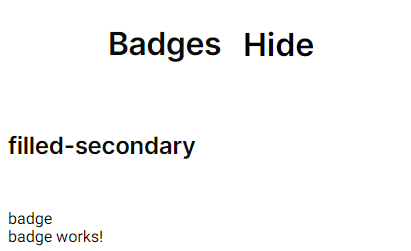
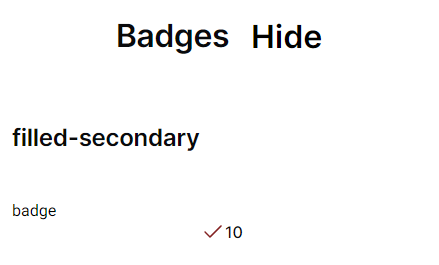
feat: add badge comp basic structure

diff --git a/src/app/shared/services/icons.servcie.ts b/src/app/shared/services/icons.servcie.ts
@@ -1,36 +1,36 @@
-import {Injectable} from '@angular/core'
-import {DomSanitizer} from '@angular/platform-browser'
-import {RefIconService} from '../ui-kit/ref-icon/services/ref-icon.service'
+import { Injectable } from '@angular/core'
+import { DomSanitizer } from '@angular/platform-browser'
+import { RefIconService } from '../ui-kit/ref-icon/services/ref-icon.service'
 
 @Injectable({
-  providedIn: 'root'
+	providedIn: 'root'
 })
 export class IconsService {
-  constructor(
-    private domSanitizer: DomSanitizer,
-    private refIconService: RefIconService
-  ) {
-  }
+	constructor(
+		private domSanitizer: DomSanitizer,
+		private refIconService: RefIconService
+	) {}
 
-  public icons: string[] = [
-    'fi_chevron-left',
-    'fi_chevron-right',
-    'fi_search',
-    'fi_x',
-    'fi_menu',
-    'fi_chevron-down',
-    'logotype',
-    'fi_maximize-2',
-    'fi_info'
-  ]
+	public icons: string[] = [
+		'fi_chevron-left',
+		'fi_chevron-right',
+		'fi_search',
+		'fi_x',
+		'fi_menu',
+		'fi_chevron-down',
+		'logotype',
+		'fi_maximize-2',
+		'fi_info',
+		'fi_check'
+	]
 
-  public async initIcons(): Promise<void> {
-    // Пример
-    for (const icon of this.icons) {
-      await this.refIconService.registerIconFromAssets(
-        icon,
-        `assets/icons/ui-kit-icons/${icon}.svg`
-      )
-    }
-  }
+	public async initIcons(): Promise<void> {
+		// Пример
+		for (const icon of this.icons) {
+			await this.refIconService.registerIconFromAssets(
+				icon,
+				`assets/icons/ui-kit-icons/${icon}.svg`
+			)
+		}
+	}
 }

diff --git a/src/app/shared/ui-kit/badge/badge.component.ts b/src/app/shared/ui-kit/badge/badge.component.ts
@@ -1,10 +1,13 @@
-import { Component } from '@angular/core';
+import { Component, Input } from '@angular/core'
+import { MibBadgeSize, MibBadgeType } from './interfaces/badge.interface'
 
 @Component({
-  selector: 'mib-badge',
-  templateUrl: './badge.component.html',
-  styleUrls: ['./badge.component.scss']
+	selector: 'mib-badge',
+	templateUrl: './badge.component.html',
+	styleUrls: ['./badge.component.scss']
 })
 export class BadgeComponent {
-
+	@Input() size: MibBadgeSize = 'l'
+	@Input() type: MibBadgeType = 'filled-primary'
+	@Input() extended: boolean = false
 }

diff --git a/src/app/shared/ui-kit/badge/badge.component.html b/src/app/shared/ui-kit/badge/badge.component.html
@@ -1,1 +1,10 @@
-<p>badge works!</p>
+<div
+	class="badge flex flex_center"
+	[ngClass]="'badge_type-' + type + ' badge_' + size"
+	[class.badge_extended]="extended"
+>
+	<mib-ref-icon badge-icon class="stroke" name="fi_check"></mib-ref-icon>
+	<p class="text text_l text_medium">
+		<ng-content></ng-content>
+	</p>
+</div>

diff --git a/src/app/shared/modules/mib-ui/mib-ui.component.html b/src/app/shared/modules/mib-ui/mib-ui.component.html
@@ -811,7 +811,7 @@
 	<div class="input-wrapper">
 		<div class="test-input">
 			<span>badge</span>
-			<mib-badge></mib-badge>
+			<mib-badge extended="true" size="l">10</mib-badge>
 		</div>
 		<mib-spacing type="xl2"></mib-spacing>
 	</div>

diff --git a/src/app/shared/ui-kit/badge/interfaces/badge.interface.ts b/src/app/shared/ui-kit/badge/interfaces/badge.interface.ts
@@ -1,2 +1,6 @@
-export interface BadgeInterface {
-}
+export type MibBadgeSize = 'l' | 'm' | 's'
+export type MibBadgeType =
+	| 'filled-primary'
+	| 'filled-secondary'
+	| 'filled-accent'
+	| 'filled-success'
